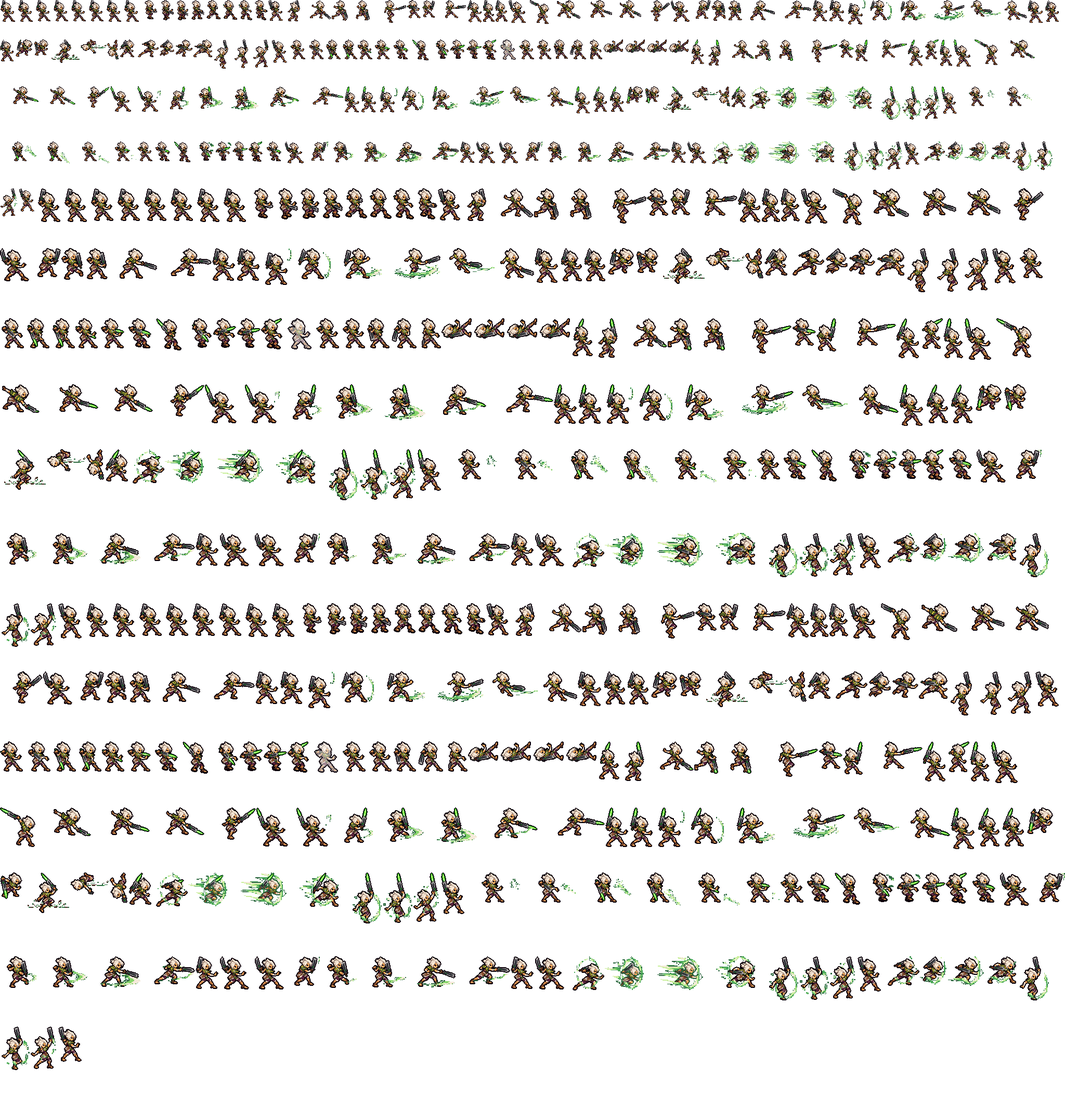
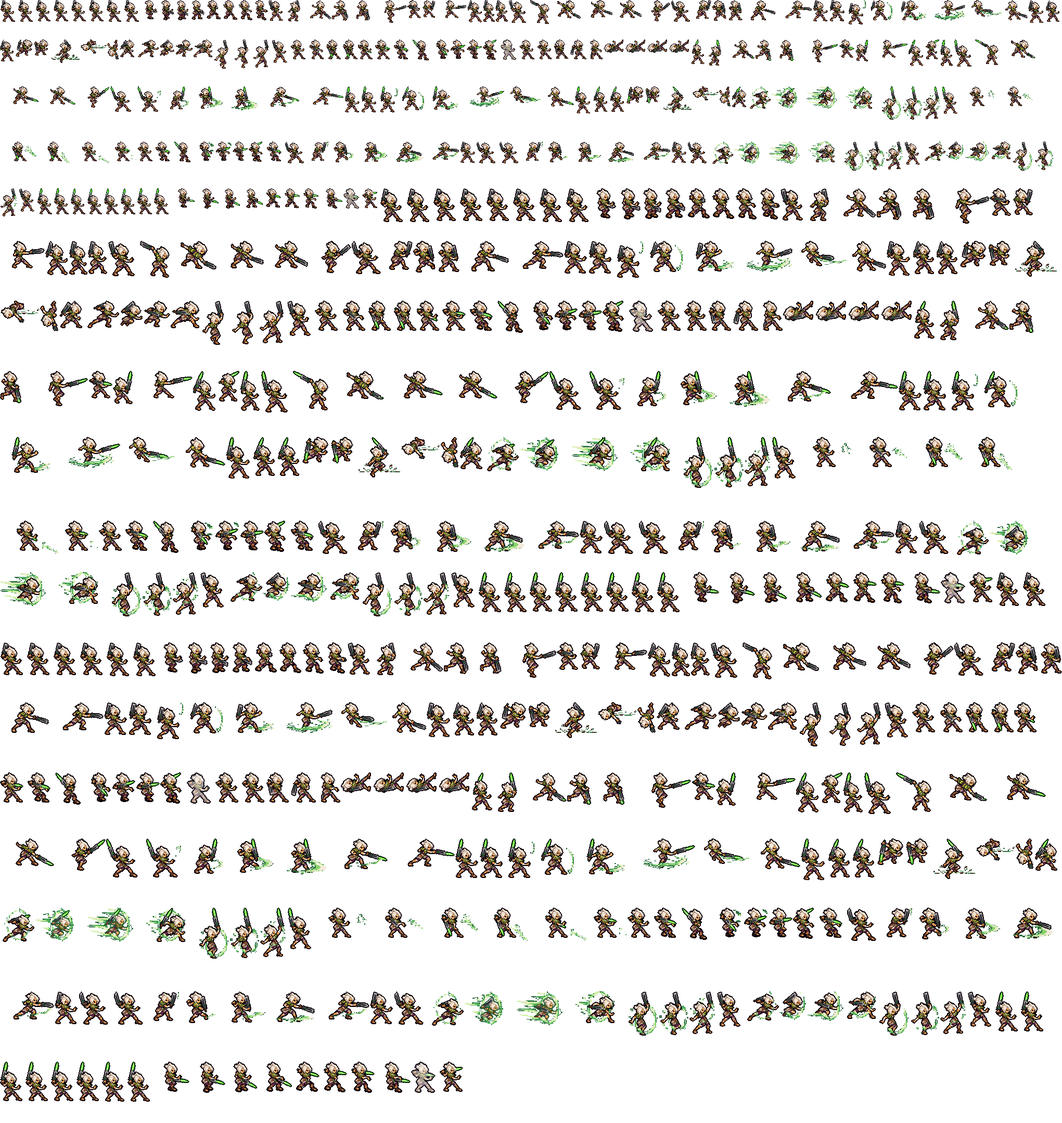
锐雯：大招期间站着、跑着、挨打也拿重铸剑；league.dll 加通用的「有状态就换整套动作」表
用户看了「和英雄联盟不一样的地方」清单后说「全改吧」。清单里有一类是「开大以后出招是大招的样子，站着、跑着、挨打
还是平时的样子」：这三个动作是游戏按名字自动播的，数据换不了，以前每个这样的英雄都要单独带一个附加包来换。

- league.dll（addons/league_main/src/looks.rs，新）：一张表 LOOKS——英雄、身上的 buff、哪些动作名换成哪些；
  显示世界里按 buff 换正在播的动作名（照 league_swain 的 view.rs，game_places 的钩子），buff 没了换回来。
  只开主包也生效；已经有自己附加包换形态的英雄不进这张表。日志 league.log 里 LOOK 开头的行
- 锐雯是第一行：身上有 league_riven_r（15 秒）时 idle / run / hit -> rf_idle / rf_run / rf_hit
- 这三套帧（tools/art/rig_riven_hd.py 的 R_STAND）：和原来的待机、跑、受击是同样的帧，断剑换成 Codex 画的
  重铸剑（她的身体帧本来不带剑，逐格没动）。原有的 84 个动作逐帧没变。待机不上下摆动：rf_idle 是站姿停住
- rig_riven_hd.py 重新生成时读到 hero_reels 写进图里的 idle_base / bp 就停：改成读原画待机的时长、跳过小动作表，
  现在不改帧时四步流程能逐字节复现提交的图
- 测试：换名规则；表里每一行的 buff 在主包数据里、换上去的帧在图里并带 hd_；佛耶戈的灵魂表跟着重新生成

本地：ui_sheets、hero_reels --check、viego make_override --check、gen_hero_docs --check，
cargo test hd_engine（48）/ league_main（45）/ league_viego_soul（26）。

还没做：游戏里没看过（没装）。亚托克斯大招期间一直飘着（同一类）还没做。

Changed region(s): [[0.0, 0.0, 1.0, 0.9886]]

diff --git a/addons/league_main/src/looks.rs b/addons/league_main/src/looks.rs
@@ -1,0 +1,207 @@
+//! 有某个状态时，整套「游戏自己按名字播」的动作换成另一套（0.9.38，2026-11-14）。
+//!
+//! 用户看了「和英雄联盟不一样的地方」的清单后说「全改吧」，其中一类是「开大以后出招是大招的样子，站着、跑着、挨打还是
+//! 平时的样子」：出招的动作数据自己能换（`CasterAnimation`），待机、移动、受击是游戏按名字 idle / run / hit 自动播的，
+//! 数据换不了。以前每个这样的英雄各带一个附加包来换（斯维因、凯隐、内瑟斯……，各自的 src/view.rs）；主包里没有附加包的
+//! 英雄（锐雯）就一直是「开大后站着还拿断剑」。这里把它做成主包 league.dll 的一张表 [`LOOKS`]：英雄 id、身上有哪个
+//! buff（任意一个）、哪些动作名换成哪些——图里要有换上去的那套帧（带 hd_ 的）。只开主包也生效。
+//!
+//! 做法和那些附加包一样（照 league_swain 的 view.rs）：游戏的显示世界每帧调用显示处理表里的更新函数，game_places 在运行
+//! 时找到它的槽（[`game_places::hook`]），本 DLL 的函数接在后面，走一遍显示世界的实体表；名字在表里的实体，身上有那个
+//! buff 就把正在播的动作名换过去，buff 没了（时间到、阵亡）换回来。画面实体的 buff 就是屏幕上这一刻的。新名字用游戏同一个
+//! 堆（GetProcessHeap）分配，旧的照游戏的做法释放。认不得的游戏版本、Mac / Linux 什么都不做，英雄照旧。
+//!
+//! 已经由自己的附加包换形态的英雄不进这张表（两边都换同一个名字不会出错，但一个英雄只该有一处管）。
+
+/// (英雄 id, 身上的 buff——任意一个, [(游戏播的动作名, 换成的动作名)])。
+///
+/// 锐雯的放逐之刃（`league_riven_r`，15 秒）：英雄联盟里整段时间剑都是重铸的；她出招的 `*_r` 动作数据自己播，站着、
+/// 跑着、挨打换成 `rf_idle` / `rf_run` / `rf_hit`（tools/art/rig_riven_hd.py 的 R_STAND：同样的帧，断剑换成重铸剑）。
+pub const LOOKS: &[(&str, &[&str], &[(&str, &str)])] =
+    &[("league_riven", &["league_riven_r"], &[("idle", "rf_idle"), ("run", "rf_run"), ("hit", "rf_hit")])];
+
+/// 正在播的动作名 + 这个状态在不在 → 该播的名字（不用换就是 None）。状态没了时把换上去的名字换回来。
+pub fn swap(pairs: &[(&'static str, &'static str)], cur: &str, on: bool) -> Option<&'static str> {
+    if on {
+        pairs.iter().find(|p| p.0 == cur).map(|p| p.1)
+    } else {
+        pairs.iter().find(|p| p.1 == cur).map(|p| p.0)
+    }
+}
+
+/// 表里这个名字的行。
+pub fn row(name: &[u8]) -> Option<&'static (&'static str, &'static [&'static str], &'static [(&'static str, &'static str)])> {
+    LOOKS.iter().find(|l| l.0.as_bytes() == name)
+}
+
+#[cfg(windows)]
+mod hook {
+    use std::sync::{Mutex, Once};
+
+    use game_places::hook::{Ent, ANIM_CAP, ANIM_LEN, ANIM_PTR, BUFFS_LEN, BUFFS_PTR, BUFF_SIZE, NAME_LEN_AT, NAME_PTR, VALUE};
+
+    use super::{row, swap, LOOKS};
+    use crate::wlog;
+
+    /// LOOK lines a game start (a hero's look changing: twice a cast).
+    const LINES: usize = 80;
+
+    struct Stats {
+        writes: u64,
+        last: Option<std::time::Instant>,
+        /// (display world, entity, on) last logged: a line only when it changes
+        looks: Vec<(usize, u64, bool)>,
+        lines: usize,
+    }
+
+    static STATS: Mutex<Stats> = Mutex::new(Stats { writes: 0, last: None, looks: Vec::new(), lines: 0 });
+    static HOOK: Once = Once::new();
+
+    #[link(name = "kernel32")]
+    extern "system" {
+        fn GetProcessHeap() -> isize;
+        fn HeapAlloc(heap: isize, flags: u32, bytes: usize) -> *mut u8;
+        fn HeapFree(heap: isize, flags: u32, mem: *mut u8) -> i32;
+    }
+
+    unsafe fn q(addr: usize) -> usize {
+        std::ptr::read_unaligned(addr as *const usize)
+    }
+
+    fn plausible(p: usize) -> bool {
+        (0x10000..0x7fff_ffff_ffff).contains(&p)
+    }
+
+    /// 显示世界里表上的每个英雄：按身上的 buff 换正在播的动作名。
+    unsafe fn dress(world: usize, ents: &[Ent]) {
+        let Ok(mut st) = STATS.try_lock() else { return };
+        let now = std::time::Instant::now();
+        if st.last.is_none_or(|t| now.duration_since(t).as_secs_f64() >= 30.0) {
+            if st.last.is_some() && st.writes > 0 {
+                wlog(format!("LOOK {} animation names swapped in 30 s", st.writes));
+            }
+            st.last = Some(now);
+            st.writes = 0;
+        }
+        for e in ents {
+            let v = e.elem + VALUE;
+            let n = q(v + NAME_LEN_AT);
+            if !(8..=40).contains(&n) {
+                continue;
+            }
+            let ptr = q(v + NAME_PTR);
+            if !plausible(ptr) {
+                continue;
+            }
+            let Some(&(id, buffs, pairs)) = row(std::slice::from_raw_parts(ptr as *const u8, n)) else { continue };
+            let (bp, bn) = (q(v + BUFFS_PTR), q(v + BUFFS_LEN));
+            let on = plausible(bp) && bn <= 256 && (0..bn).any(|k| {
+                let b = bp + k * BUFF_SIZE;
+                let (p, len) = (q(b + 8), q(b + 0x10));
+                plausible(p) && buffs.iter().any(|w| len == w.len() && std::slice::from_raw_parts(p as *const u8, len) == w.as_bytes())
+            });
+            let (acap, aptr, alen) = (q(v + ANIM_CAP), q(v + ANIM_PTR), q(v + ANIM_LEN));
+            if !(1..=32).contains(&alen) || acap < alen || !plausible(aptr) {
+                continue;
+            }
+            let Ok(cur) = std::str::from_utf8(std::slice::from_raw_parts(aptr as *const u8, alen)) else { continue };
+            let look = (world, e.key, on);
+            if !st.looks.contains(&look) {
+                let known = st.looks.iter().any(|l| l.0 == world && l.1 == e.key);
+                st.looks.retain(|l| !(l.0 == world && l.1 == e.key));
+                st.looks.push(look);
+                if st.looks.len() > 64 {
+                    st.looks.remove(0);
+                }
+                // a hero first seen without the buff is not news; the look coming and going is
+                if (on || known) && st.lines < LINES {
+                    st.lines += 1;
+                    wlog(format!("LOOK display world {world:#x} {id} #{}: {} (playing {cur})", e.key,
+                        if on { "the buff is on - its own stand / run / hit frames" } else { "back to the plain frames" }));
+                }
+            }
+            let Some(want) = swap(pairs, cur, on) else { continue };
+            let heap = GetProcessHeap();
+            let fresh = HeapAlloc(heap, 0, want.len());
+            if fresh.is_null() {
+                continue;
+            }
+            std::ptr::copy_nonoverlapping(want.as_ptr(), fresh, want.len());
+            std::ptr::write_unaligned((v + ANIM_CAP) as *mut usize, want.len());
+            std::ptr::write_unaligned((v + ANIM_PTR) as *mut usize, fresh as usize);
+            std::ptr::write_unaligned((v + ANIM_LEN) as *mut usize, want.len());
+            if acap > 0 {
+                HeapFree(heap, 0, aptr as *mut u8);
+            }
+            st.writes += 1;
+        }
+    }
+
+    /// 加载时换槽（一个进程只换一次）；表是空的就不挂。
+    pub fn install_once() {
+        if LOOKS.is_empty() {
+            return;
+        }
+        HOOK.call_once(|| match game_places::hook::add("league_main_looks", dress) {
+            Ok((slot, prev)) => wlog(format!(
+                "LOOK whole-body looks on for {} heroes: display slot {slot:#x} now calls league.dll, then {} ({prev:#x})",
+                LOOKS.len(),
+                if game_places::hook::chained_to_game(prev) { "the game's own handler" } else { "another mod's handler (chained)" }
+            )),
+            Err(e) => wlog(format!("LOOK whole-body looks off ({e}): between casts these heroes keep their plain frames")),
+        });
+    }
+}
+
+#[cfg(windows)]
+pub use hook::install_once;
+
+#[cfg(test)]
+mod tests {
+    use super::*;
+
+    #[test]
+    fn the_playing_animation_follows_the_buff() {
+        let pairs: &[(&str, &str)] = &[("idle", "rf_idle"), ("run", "rf_run"), ("hit", "rf_hit")];
+        assert_eq!(swap(pairs, "idle", true), Some("rf_idle"));
+        assert_eq!(swap(pairs, "run", true), Some("rf_run"));
+        assert_eq!(swap(pairs, "hit", true), Some("rf_hit"));
+        assert_eq!(swap(pairs, "rf_idle", true), None); // already swapped
+        assert_eq!(swap(pairs, "attack_r", true), None); // the data plays her casts itself
+        assert_eq!(swap(pairs, "dead", true), None);
+        assert_eq!(swap(pairs, "rf_run", false), Some("run")); // the buff is over
+        assert_eq!(swap(pairs, "idle", false), None);
+        assert_eq!(swap(pairs, "ult", false), None);
+    }
+
+    #[test]
+    fn a_row_is_found_by_the_entity_s_name() {
+        assert!(row(b"league_riven").is_some());
+        assert!(row(b"league_rive").is_none());
+        assert!(row(b"league_riven_x").is_none());
+    }
+
+    /// Every row: the hero is a dense hero of this pack, its main pack data lays each buff under that name, every tag
+    /// drawn instead is in its sheet with a dense twin (and so is the tag it stands in for), no tag is both a source
+    /// and a target, and the hero has one row.
+    #[test]
+    fn every_row_s_buffs_and_frames_exist() {
+        let table = crate::hd::table();
+        for (i, &(id, buffs, pairs)) in LOOKS.iter().enumerate() {
+            assert!(LOOKS[..i].iter().all(|l| l.0 != id), "{id} has two rows");
+            let fanim = table.heroes.iter().find(|h| h.0 == id).unwrap_or_else(|| panic!("{id} is no dense hero of this pack")).2;
+            let path = format!("{}/../../league/champion/{id}.data_champion", env!("CARGO_MANIFEST_DIR"));
+            let data = std::fs::read_to_string(&path).unwrap_or_else(|e| panic!("{path}: {e}"));
+            assert!(!buffs.is_empty() && !pairs.is_empty());
+            for b in buffs {
+                assert!(data.contains(&format!("\"name\": \"{b}\"")), "the main pack never gives {id} {b}");
+            }
+            for &(from, to) in pairs {
+                for name in [from.to_string(), to.to_string(), format!("hd_{from}"), format!("hd_{to}")] {
+                    assert!(fanim.contains(&format!("\"{name}\":")), "{name} is not in {id}'s sheet");
+                }
+                assert!(pairs.iter().all(|p| p.0 != to && p.1 != from), "{id}: {from} / {to} is both a source and a target");
+            }
+        }
+    }
+}

diff --git a/tools/art/rig_riven_hd.py b/tools/art/rig_riven_hd.py
@@ -73,6 +73,13 @@ R_TAGS = {"attack_r": "attack", "attack2_r": "attack2", "attack3_r": "attack3", 
 # plays attack2 / attack3 by a counter (league_riven.data_champion); their timing is the first attack's.
 MORE_ATTACKS = {"attack": ["attack2", "attack3"], "attack_r": ["attack2_r", "attack3_r"]}
 R_FORM = {"r_slash"}                         # the wind slash: reforged throughout
+# Standing, running and reeling with the reforged sword while Blade of the Exile lasts (the user, 2026-11-14, on the
+# list of differences from League: 「全改吧」 - League's sword stays reforged for the whole 15 s; here her casts took the
+# reforged sword but between them she stood and ran with the broken one, a ring at her feet the only sign): the same
+# frames as idle / run / hit with Codex's reforged sword stamped in place of the broken one. The game plays these
+# three by name itself, so league.dll swaps them in while `league_riven_r` is on her (addons/league_main/src/
+# looks.rs). `rf_`: her sheet already has `r_slash`, and tools/art/hero_reels.py reads `<x>_idle` as form x's idle.
+R_STAND = {"rf_idle": "idle", "rf_run": "run", "rf_hit": "hit"}
 ULT_REFORGED = 2                             # the reforge (ult): reforged from this frame on
 
 # ------------------------------------------------------------------------------------------------- the swords
@@ -429,13 +436,13 @@ def leg_piece(D, lg):
     return out
 
 
-def idle_frame(rig, legs, sink, rest=0.0, front=False):
+def idle_frame(rig, legs, sink, rest=0.0, front=False, kind="normal"):
     lay = [("arm", dict(dy=sink, angle=0, about=SHOULDER))]
     lay += [(legs[lg["name"]], dict()) for lg in (BACK, FRONT)]
     lay += [("upper", dict(dy=sink)), ("forearm", dict(dy=sink, angle=0, about=ELBOW))]
     sword = ("sword", dict(dy=sink, angle=rest, about=GRIP))
     lay = lay[:-1] + [lay[-1], sword, lay[0]] if front else [sword] + lay
-    return with_sword(rig, rig.D.swords, lay, "normal")
+    return with_sword(rig, rig.D.swords, lay, kind)
 
 
 # ------------------------------------------------------------------------------------------------- the legs
@@ -648,6 +655,10 @@ def frames(rig, joints):
     legs = {lg["name"]: leg_piece(D, lg) for lg in (FRONT, BACK)}
     parts = leg_parts(D)
     sheet = R.sheet_of(HERO)
+    # the sheet as tools/art/hero_reels.py leaves it: the idle as drawn is `idle_base`, `idle` and `bp` are reels cut
+    # from the actions (rebuilt by hero_reels after this) - read the drawn idle's timing, skip the reels
+    if "idle_base" in sheet:
+        sheet = {t: (sheet["idle_base"] if t == "idle" else v) for t, v in sheet.items() if t not in ("idle_base", "bp")}
     bake = json.load(open(lp(os.path.join(R.ROOT, "assets", "source", "native", f"{HERO}_bake.json")), encoding="utf-8"))
     baked = {e["into"] for e in bake["items"] if "from" in e}
     out = {}
@@ -659,32 +670,38 @@ def frames(rig, joints):
             timing.setdefault(more, sheet[tag])
             if more not in sheet:
                 order.append(more)
+    for more, tag in R_STAND.items():
+        timing.setdefault(more, timing[tag])
+        if more not in order:
+            order.append(more)
     for tag in order:
         if tag in baked:
             continue
-        base = R_TAGS.get(tag, tag)
+        base = R_TAGS.get(tag, R_STAND.get(tag, tag))
+        reforged = tag in R_TAGS or tag in R_FORM or tag in R_STAND
         clip = tag if tag in joints["tags"] else base
         if clip not in joints["tags"]:
             sys.exit(f"{tag}: no League frames")
         rows = R.fit_rows(joints["tags"][clip], len(timing[tag]))
         ms = [m for _, m in timing[tag]]
-        drv = (drvs if tag in ("run", "hit", "dead") else swings)[tag in R_TAGS or tag in R_FORM]
+        drv = (drvs if base in ("run", "hit", "dead") else swings)[reforged]
         if base in REDRAWN:
             # Codex's frames, League's frame of the base tag each (the R forms take the same drawings)
             lg = joints["tags"][base]
             idx = [min(len(lg) - 1, int(i * len(lg) / len(ms))) for i in range(len(ms))] if len(lg) != len(ms) \
                 else list(range(len(ms)))
-            kind = "reforged" if (tag in R_TAGS or tag in R_FORM) else "normal"
+            kind = "reforged" if reforged else "normal"
             fr = [redrawn_frame(rig, drv, base, k + 1, lg[k]["j"], kind) for k in idx]
-        elif tag == "idle":
-            fr = [idle_frame(rig, legs, IDLE_SINK[i % len(IDLE_SINK)], IDLE_HOLD) for i in range(len(ms))]
+        elif base == "idle":
+            fr = [idle_frame(rig, legs, IDLE_SINK[i % len(IDLE_SINK)], IDLE_HOLD, kind="reforged" if reforged else "normal")
+                  for i in range(len(ms))]
         elif base in LEG_TAGS:
             fr = [drawn_frame(rig, drv, joints, parts, r["j"]) for r in rows]
         elif tag == "ult":
             fr = [sword_frame(drvs[i >= ULT_REFORGED], r["j"])[0] for i, r in enumerate(rows)]
         else:
             fr = [sword_frame(drv, r["j"])[0] for r in rows]
-        if tag == "hit":
+        if base == "hit":
             fr[0] = R.flash(fr[0])
         if tag == "dead":
             # the sword pointing straight down in front of her first: laid a quarter turn it lies along the ground

diff --git a/addons/league_viego_soul/src/souls.rs b/addons/league_viego_soul/src/souls.rs
@@ -155,7 +155,7 @@ pub const SOULS: &[(&str, &str, &[&str])] = &[
     ("league_renata", "util", &["attack", "bp", "dead", "hd_attack", "hd_bp", "hd_dead", "hd_hit", "hd_idle", "hd_idle_base", "hd_run", "hd_skill", "hd_skill2", "hd_skill2_fling", "hd_skill_w", "hd_ult", "hit", "idle", "idle_base", "lo_attack", "lo_bp", "lo_dead", "lo_hit", "lo_idle", "lo_idle_base", "lo_run", "lo_skill", "lo_skill2", "lo_skill2_fling", "lo_skill_w", "lo_ult", "run", "skill", "skill2", "skill2_fling", "skill_w", "ult"]),
     ("league_renekton", "melee", &["attack", "bp", "dead", "hd_attack", "hd_bp", "hd_dead", "hd_hit", "hd_idle", "hd_idle_base", "hd_run", "hd_skill", "hd_skill2", "hd_skill2_w", "hd_ult", "hit", "idle", "idle_base", "lo_attack", "lo_bp", "lo_dead", "lo_hit", "lo_idle", "lo_idle_base", "lo_run", "lo_skill", "lo_skill2", "lo_skill2_w", "lo_ult", "run", "skill", "skill2", "skill2_w", "ult"]),
     ("league_rengar", "assassin", &["attack", "bp", "dead", "hd_attack", "hd_bp", "hd_dead", "hd_hit", "hd_idle", "hd_idle_base", "hd_leap", "hd_run", "hd_skill", "hd_skill2", "hd_skill_w", "hd_ult", "hit", "idle", "idle_base", "leap", "lo_attack", "lo_bp", "lo_dead", "lo_hit", "lo_idle", "lo_idle_base", "lo_leap", "lo_run", "lo_skill", "lo_skill2", "lo_skill_w", "lo_ult", "run", "skill", "skill2", "skill_w", "ult"]),
-    ("league_riven", "melee", &["attack", "attack2", "attack2_r", "attack3", "attack3_r", "attack_r", "bp", "dead", "hd_attack", "hd_attack2", "hd_attack2_r", "hd_attack3", "hd_attack3_r", "hd_attack_r", "hd_bp", "hd_dead", "hd_hit", "hd_idle", "hd_idle_base", "hd_q2", "hd_q2_r", "hd_q3", "hd_q3_r", "hd_r_slash", "hd_r_slash_fx1", "hd_run", "hd_skill", "hd_skill2", "hd_skill2_fx1", "hd_skill2_fx2", "hd_skill2_r", "hd_skill_fx1", "hd_skill_fx2", "hd_skill_r", "hd_ult", "hd_ult_fx1", "hit", "idle", "idle_base", "lo_attack", "lo_attack2", "lo_attack2_r", "lo_attack3", "lo_attack3_r", "lo_attack_r", "lo_bp", "lo_dead", "lo_hit", "lo_idle", "lo_idle_base", "lo_q2", "lo_q2_r", "lo_q3", "lo_q3_r", "lo_r_slash", "lo_r_slash_fx1", "lo_run", "lo_skill", "lo_skill2", "lo_skill2_fx1", "lo_skill2_fx2", "lo_skill2_r", "lo_skill_fx1", "lo_skill_fx2", "lo_skill_r", "lo_ult", "lo_ult_fx1", "q2", "q2_r", "q3", "q3_r", "r_slash", "r_slash_fx1", "run", "skill", "skill2", "skill2_fx1", "skill2_fx2", "skill2_r", "skill_fx1", "skill_fx2", "skill_r", "ult", "ult_fx1"]),
+    ("league_riven", "melee", &["attack", "attack2", "attack2_r", "attack3", "attack3_r", "attack_r", "bp", "dead", "hd_attack", "hd_attack2", "hd_attack2_r", "hd_attack3", "hd_attack3_r", "hd_attack_r", "hd_bp", "hd_dead", "hd_hit", "hd_idle", "hd_idle_base", "hd_q2", "hd_q2_r", "hd_q3", "hd_q3_r", "hd_r_slash", "hd_r_slash_fx1", "hd_rf_hit", "hd_rf_idle", "hd_rf_idle_base", "hd_rf_run", "hd_run", "hd_skill", "hd_skill2", "hd_skill2_fx1", "hd_skill2_fx2", "hd_skill2_r", "hd_skill_fx1", "hd_skill_fx2", "hd_skill_r", "hd_ult", "hd_ult_fx1", "hit", "idle", "idle_base", "lo_attack", "lo_attack2", "lo_attack2_r", "lo_attack3", "lo_attack3_r", "lo_attack_r", "lo_bp", "lo_dead", "lo_hit", "lo_idle", "lo_idle_base", "lo_q2", "lo_q2_r", "lo_q3", "lo_q3_r", "lo_r_slash", "lo_r_slash_fx1", "lo_rf_hit", "lo_rf_idle", "lo_rf_idle_base", "lo_rf_run", "lo_run", "lo_skill", "lo_skill2", "lo_skill2_fx1", "lo_skill2_fx2", "lo_skill2_r", "lo_skill_fx1", "lo_skill_fx2", "lo_skill_r", "lo_ult", "lo_ult_fx1", "q2", "q2_r", "q3", "q3_r", "r_slash", "r_slash_fx1", "rf_hit", "rf_idle", "rf_idle_base", "rf_run", "run", "skill", "skill2", "skill2_fx1", "skill2_fx2", "skill2_r", "skill_fx1", "skill_fx2", "skill_r", "ult", "ult_fx1"]),
     ("league_rumble", "melee", &["attack", "bp", "dead", "hd_attack", "hd_bp", "hd_dead", "hd_hit", "hd_idle", "hd_idle_base", "hd_oh_attack", "hd_oh_dead", "hd_oh_hit", "hd_oh_idle", "hd_oh_idle_base", "hd_oh_run", "hd_q_run", "hd_q_stand", "hd_run", "hd_skill", "hd_skill2", "hd_ult", "hit", "idle", "idle_base", "lo_attack", "lo_bp", "lo_dead", "lo_hit", "lo_idle", "lo_idle_base", "lo_oh_attack", "lo_oh_dead", "lo_oh_hit", "lo_oh_idle", "lo_oh_idle_base", "lo_oh_run", "lo_q_run", "lo_q_stand", "lo_run", "lo_skill", "lo_skill2", "lo_ult", "oh_attack", "oh_dead", "oh_hit", "oh_idle", "oh_idle_base", "oh_run", "q_run", "q_stand", "run", "skill", "skill2", "ult"]),
     ("league_ryze", "mage", &["attack", "bp", "dead", "hd_attack", "hd_bp", "hd_dead", "hd_hit", "hd_idle", "hd_idle_base", "hd_run", "hd_skill", "hd_skill2", "hd_ult", "hd_ult_land", "hit", "idle", "idle_base", "lo_attack", "lo_bp", "lo_dead", "lo_hit", "lo_idle", "lo_idle_base", "lo_run", "lo_skill", "lo_skill2", "lo_ult", "lo_ult_land", "run", "skill", "skill2", "ult", "ult_land"]),
     ("league_samira", "range", &["attack", "attack_m", "bp", "dead", "hd_attack", "hd_attack_m", "hd_bp", "hd_dead", "hd_hit", "hd_idle", "hd_idle_base", "hd_run", "hd_skill", "hd_skill2", "hd_skill_m", "hd_ult", "hit", "idle", "idle_base", "lo_attack", "lo_attack_m", "lo_bp", "lo_dead", "lo_hit", "lo_idle", "lo_idle_base", "lo_run", "lo_skill", "lo_skill2", "lo_skill_m", "lo_ult", "run", "skill", "skill2", "skill_m", "ult"]),

diff --git a/addons/league_main/src/lib.rs b/addons/league_main/src/lib.rs
@@ -49,6 +49,10 @@
 //! 属性 `stack`：游戏自己的英雄信息面板在技能图标旁边显示它（数据里的 `stack_skill_index` 选图标，tools/kit/stack_nums.py
 //! 生成表和这个字段）。基础属性按宿主自己的机器码读出布局、原样读出来只换 `stack` 再写回，布局对不上就不写。
 //!
+//! src/looks.rs（0.9.38，用户 2026-11-14 看了「和英雄联盟不一样的地方」的清单后说「全改吧」）：身上有某个 buff 时，游戏自己按名字
+//! 播的待机 / 移动 / 受击换成图里的另一套（锐雯开大后站着、跑着也拿重铸剑）。以前这样的英雄各带一个附加包来换，现在主包里
+//! 一张表，只开主包也生效；已经有自己附加包的英雄不进这张表。
+//!
 //! 日志：`%APPDATA%\TeamSamoyed\TeamfightManager2\data\league.log`，每次启动游戏重写（上一次的留作 league.prev.log）。
 //! 挂钩、取表、缩放的行写在挂钩的那个 DLL 的日志里：tft.dll 先加载时在 tft.log，这里只有一行「交给了谁」。
 
@@ -65,6 +69,7 @@ use mod_api_stable::*;
 mod cache;
 pub mod diverge;
 pub mod hd;
+pub mod looks;
 pub mod low_hp;
 pub mod range;
 mod range_table;
@@ -139,6 +144,10 @@ fn init(host: &StableHost) -> StableMod {
             &format!("League Heroes: dense (PPU) frames for the heroes that have them, drawn by {by}.")),
         Role::Off(why) => host.log(LogLevel::Info, &format!("League Heroes: 1x frames - {why}.")),
     }
+    // whole-body looks while a buff is on (Riven's reforged sword between her casts): the playing stand / run / hit
+    // names swapped in the display world (src/looks.rs), whoever draws the dense frames
+    #[cfg(windows)]
+    looks::install_once();
     let mut module = StableMod::new(ID);
     #[cfg(windows)]
     module.set_extension(warm::Warm);

diff --git a/docs/heroes/league_riven.md b/docs/heroes/league_riven.md
@@ -90,6 +90,7 @@
 | 特效 | Codex 画的两批。第一批逐帧画在她自己的动作上（前后两层）：Q 前两段的绿色剑弧、Q 第三段砸地的地裂和碎石、E 冲刺时的护盾横扫、W 落地的地面爆发、R 开启时剑身裹上的绿光、疾风斩的月牙剑气（飞出去的也是这道剑气）。第二批：普攻的白色斜斩、用掉符文的交叉符文斩、Q 斩中、疾风斩打中、被击飞的人脚下卷起的尘土和碎石、被眩晕的人头顶转的符文环、E 的护盾（五块符文碎片绕腰转，护盾在就一直在）、头顶的符文层数（三种符文字，一层一块）、大招期间脚下的符文光环和身边上升的光点 |
 | 图标 | 官方技能图标（Q 折翼之舞 / E 勇往直前 / R 放逐之锋），64×64 |
 | 音频 | 从本地客户端提取的 15 条技能音效和 4 条中文语音（Q 第三段、W、R 开启、疾风斩；Q 前两段每几秒一次，配语音会太吵，不用）。不提交到仓库，按下面的命令在本地生成 |
+| 大招期间站着、跑着也拿重铸剑（`league.dll` 0.9.38 / 主包 0.347.0，2026-11-14） | 用户看了「和英雄联盟不一样的地方」清单后说「全改吧」。英雄联盟里放逐之刃的 15 秒剑一直是重铸的；这里出招的动作（`*_r`）数据自己会换成重铸剑，可站着、跑着、挨打是游戏按名字自动播的，还是断剑，只有脚下一圈符文光环。现在图里多了三套帧 `rf_idle` / `rf_run` / `rf_hit`（[`tools/art/rig_riven_hd.py`](../../tools/art/rig_riven_hd.py) 的 `R_STAND`：和原来的待机、跑、受击是同样的帧，断剑换成 Codex 画的重铸剑，她的身体帧本来就不带剑，所以逐格没动），`league.dll` 新加的一张表（`addons/league_main/src/looks.rs` 的 `LOOKS`）在她身上有 `league_riven_r` 时把正在播的 `idle` / `run` / `hit` 换过去，大招结束或阵亡换回来——以前这样的英雄都要单独带一个附加包来换，这张表只开主包也生效。待机照别的英雄不上下摆动：`rf_idle` 是站姿停住（`hero_reels.json`）。原有的 84 个动作逐帧没变。顺带修了 `rig_riven_hd.py` 重新生成时读到待机小动作表（`idle_base` / `bp`）就停的问题。游戏里还没看过：下一局看她开大后站着、跑着手里是不是绿色的重铸剑，`league.log` 里有 `LOOK` 开头的行 |
 
 ```bash
 python tools/lol/extract_riven.py --lol "D:\WeGameApps\lol" --vgmstream "<vgmstream-cli.exe 路径>"
